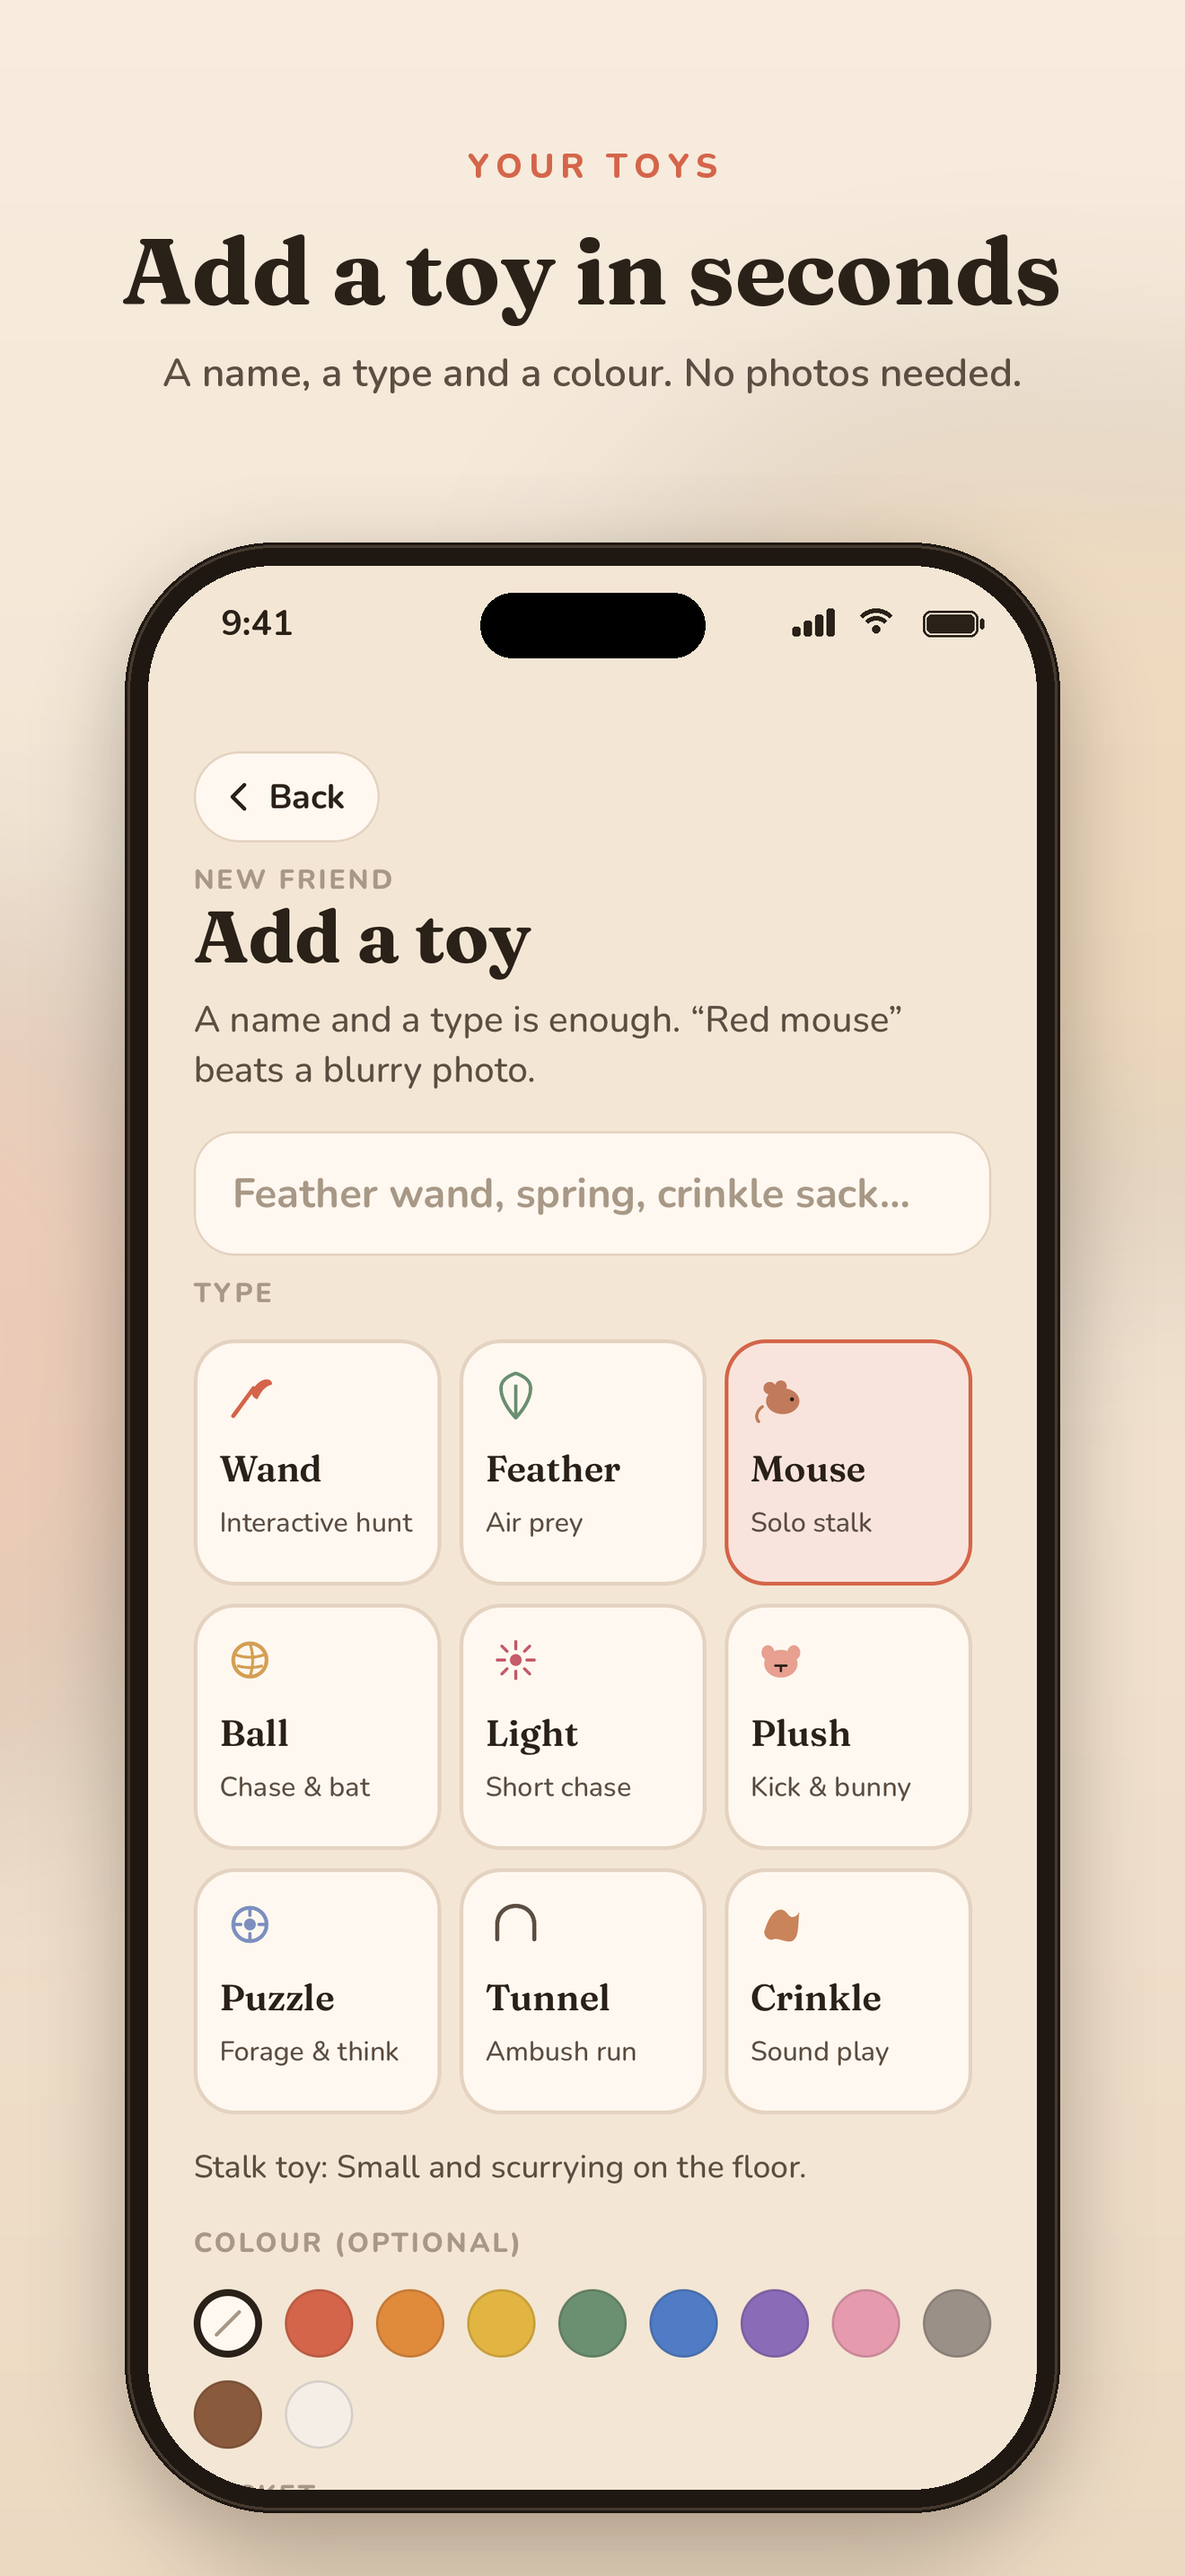
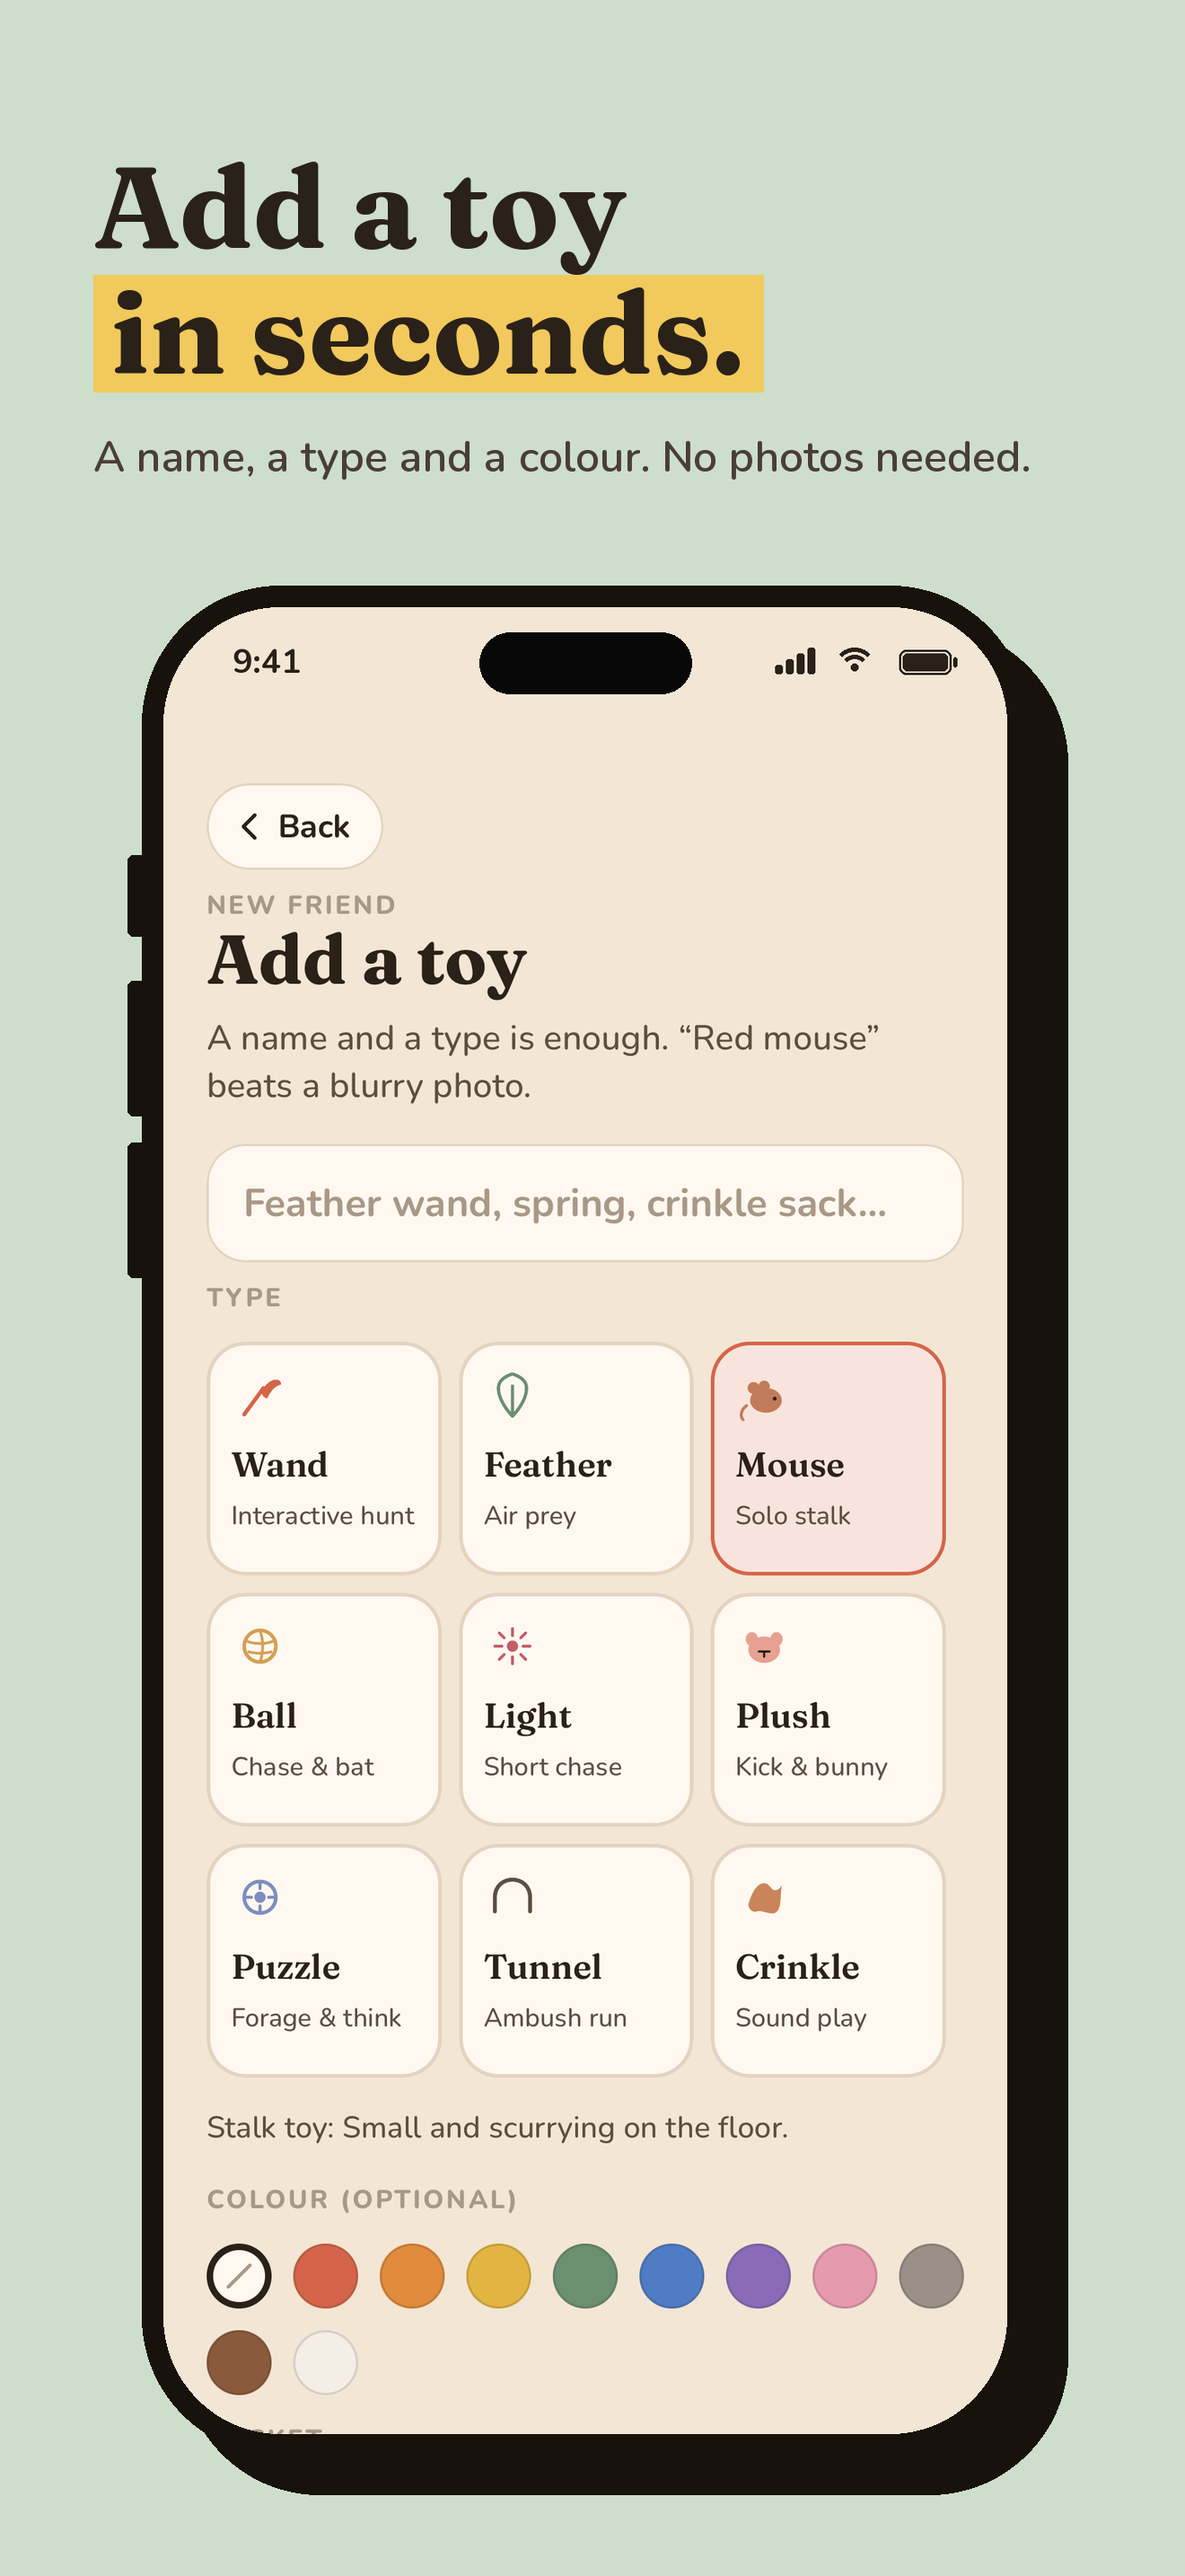
App Store screenshots: flat backgrounds, highlighted headlines, offset phone frame

diff --git a/appstore/make_screenshots.py b/appstore/make_screenshots.py
@@ -1,16 +1,16 @@
 """
 App Store screenshots for Purrtate.
 
-Puts each screenshot from appstore/source/ into an iPhone frame on a cream
-background with a headline, at 1320 x 2868 (6.9" display, the size App Store
-Connect requires). Replace a source PNG and run again to regenerate:
+Puts each screenshot from appstore/source/ into an iPhone frame with a
+headline, at 1320 x 2868 (6.9" display, the size App Store Connect requires).
+Replace a source PNG or edit SHOTS, then run again:
 
     python3 appstore/make_screenshots.py
 """
 
 from pathlib import Path
 
-from PIL import Image, ImageDraw, ImageFilter, ImageFont
+from PIL import Image, ImageDraw, ImageFont
 
 ROOT = Path(__file__).resolve().parent
 PROJECT = ROOT.parent
@@ -18,69 +18,45 @@ SRC = ROOT / "source"
 OUT = ROOT / "out"
 
 W, H = 1320, 2868
+MARGIN = 104
 
-CREAM_TOP = (247, 236, 222)
-CREAM_BOTTOM = (236, 217, 194)
 INK = (42, 33, 24)
-SOFT = (92, 78, 66)
-TERRA = (212, 101, 74)
-HONEY = (212, 160, 84)
-SAGE = (107, 143, 113)
+SOFT = (74, 62, 52)
 APP_BG = (243, 230, 212)
-FRAME = (31, 24, 18)
+FRAME = (24, 18, 13)
+HIGHLIGHT = (242, 201, 92)
+
+# Brand backgrounds, one per screenshot.
+PINK = (236, 200, 184)
+HONEY = (240, 215, 168)
+SAGE = (205, 222, 202)
+CREAM = (234, 217, 194)
 
 FONTS = PROJECT / "node_modules/@expo-google-fonts"
 DISPLAY = FONTS / "fraunces/700Bold/Fraunces_700Bold.ttf"
-LABEL = FONTS / "nunito/800ExtraBold/Nunito_800ExtraBold.ttf"
 BODY = FONTS / "nunito/600SemiBold/Nunito_600SemiBold.ttf"
 BOLD = FONTS / "nunito/700Bold/Nunito_700Bold.ttf"
 
-# Order matters: the first three show in App Store search results.
+# (source, background, plain headline, highlighted headline, subtitle)
+# The first three show in App Store search results.
 SHOTS = [
-    ("today.png", "TODAY", "Know what’s out, and when to swap", "One basket out, two resting. Swap early if they’re bored."),
-    ("baskets.png", "THREE BASKETS", "One out, two resting", "Mix a chase, a stalk and a grab toy into every basket."),
-    ("add-toy.png", "YOUR TOYS", "Add a toy in seconds", "A name, a type and a colour. No photos needed."),
-    ("energy.png", "YOUR CAT’S PACE", "Swap as often as they need", "Start with a suggestion, then adjust to your cat."),
-    ("name.png", "ONE HOME", "Several cats? One schedule", "Cats share the toys, so they share the baskets too."),
-    ("welcome.png", "PRIVATE", "No account. No tracking.", "Everything stays on your iPhone."),
+    ("today.png", PINK, "What’s out,", "when to swap.", "One basket out, two resting. Swap early if your cat is already bored."),
+    ("baskets.png", HONEY, "Three baskets.", "One out.", "Two rest so they feel new. Mix a chase, a stalk and a grab toy in each."),
+    ("add-toy.png", SAGE, "Add a toy", "in seconds.", "A name, a type and a colour. No photos needed."),
+    ("energy.png", CREAM, "Swap at", "your cat’s pace.", "Start with a suggestion, then adjust to how they really play."),
+    ("name.png", PINK, "Several cats?", "One schedule.", "Cats share the toys, so they share the baskets too."),
+    ("welcome.png", HONEY, "No account.", "No tracking.", "Everything stays on your iPhone."),
 ]
 
 # Phone geometry
-SCREEN_W = 990
-BEZEL = 26
-SCREEN_R = 140
+SCREEN_W = 940
+BEZEL = 24
+SCREEN_R = 130
+SHADOW = 44
 
 
 def font(path: Path, size: int) -> ImageFont.FreeTypeFont:
     return ImageFont.truetype(str(path), size)
-
-
-def gradient() -> Image.Image:
-    img = Image.new("RGB", (W, H))
-    px = img.load()
-    for y in range(H):
-        t = y / (H - 1)
-        c = tuple(round(CREAM_TOP[i] + (CREAM_BOTTOM[i] - CREAM_TOP[i]) * t) for i in range(3))
-        for x in range(W):
-            px[x, y] = c
-    return img
-
-
-def blobs(img: Image.Image, seed: int) -> None:
-    """Soft decorative circles in brand colours."""
-    layer = Image.new("RGBA", (W, H), (0, 0, 0, 0))
-    d = ImageDraw.Draw(layer)
-    spots = [
-        ((-220, 1500), 520, TERRA),
-        ((W - 200, 900), 460, HONEY),
-        ((W - 420, H - 260), 520, SAGE),
-    ]
-    for i, ((cx, cy), r, col) in enumerate(spots):
-        if (i + seed) % 3 == 2:
-            continue
-        d.ellipse([cx - r, cy - r, cx + r, cy + r], fill=col + (46,))
-    layer = layer.filter(ImageFilter.GaussianBlur(120))
-    img.paste(layer, (0, 0), layer)
 
 
 def wrap(draw: ImageDraw.ImageDraw, text: str, f: ImageFont.FreeTypeFont, max_w: int) -> list[str]:
@@ -98,16 +74,6 @@ def wrap(draw: ImageDraw.ImageDraw, text: str, f: ImageFont.FreeTypeFont, max_w:
     return lines
 
 
-def spaced(draw: ImageDraw.ImageDraw, xy, text: str, f, fill, tracking: float) -> None:
-    """Centered text with letter spacing."""
-    widths = [draw.textlength(ch, font=f) for ch in text]
-    total = sum(widths) + tracking * (len(text) - 1)
-    x = xy[0] - total / 2
-    for ch, w in zip(text, widths):
-        draw.text((x, xy[1]), ch, font=f, fill=fill)
-        x += w + tracking
-
-
 def clean_status_bar(screen: Image.Image) -> Image.Image:
     """Replace the real status bar (time, low battery) with a tidy 9:41 bar."""
     s = screen.copy()
@@ -117,19 +83,14 @@ def clean_status_bar(screen: Image.Image) -> Image.Image:
     d.rectangle([0, 0, sw, int(132 * k)], fill=APP_BG)
     cy = int(76 * k)
     d.text((int(96 * k), cy), "9:41", font=font(BOLD, int(46 * k)), fill=INK, anchor="lm")
-    # Battery
     bx, bw, bh = sw - int(150 * k), int(72 * k), int(34 * k)
     d.rounded_rectangle([bx, cy - bh // 2, bx + bw, cy + bh // 2], radius=int(10 * k), outline=INK, width=max(2, int(3 * k)))
     d.rounded_rectangle([bx + int(5 * k), cy - bh // 2 + int(5 * k), bx + bw - int(5 * k), cy + bh // 2 - int(5 * k)], radius=int(6 * k), fill=INK)
     d.rounded_rectangle([bx + bw + int(3 * k), cy - int(7 * k), bx + bw + int(8 * k), cy + int(7 * k)], radius=int(2 * k), fill=INK)
-    # Wifi
     wx = bx - int(62 * k)
-    for i, r in enumerate((int(30 * k), int(20 * k), int(10 * k))):
-        if i < 2:
-            d.arc([wx - r, cy - r + int(10 * k), wx + r, cy + r + int(10 * k)], 225, 315, fill=INK, width=max(3, int(6 * k)))
-        else:
-            d.ellipse([wx - int(5 * k), cy + int(2 * k), wx + int(5 * k), cy + int(12 * k)], fill=INK)
-    # Signal
+    for r in (int(30 * k), int(20 * k)):
+        d.arc([wx - r, cy - r + int(10 * k), wx + r, cy + r + int(10 * k)], 225, 315, fill=INK, width=max(3, int(6 * k)))
+    d.ellipse([wx - int(5 * k), cy + int(2 * k), wx + int(5 * k), cy + int(12 * k)], fill=INK)
     sx = wx - int(110 * k)
     for i in range(4):
         h = int((12 + i * 8) * k)
@@ -138,80 +99,73 @@ def clean_status_bar(screen: Image.Image) -> Image.Image:
 
 
 def phone(screen: Image.Image) -> Image.Image:
+    """Phone body with side buttons and a solid offset shadow, on a transparent layer."""
     screen = clean_status_bar(screen)
     sh = round(SCREEN_W * screen.height / screen.width)
     screen = screen.resize((SCREEN_W, sh), Image.LANCZOS)
     bw, bh = SCREEN_W + BEZEL * 2, sh + BEZEL * 2
+    btn = 16  # side buttons stick out on the left
+    layer = Image.new("RGBA", (bw + btn + SHADOW, bh + SHADOW), (0, 0, 0, 0))
+    d = ImageDraw.Draw(layer)
+    ox = btn
+    r = SCREEN_R + BEZEL
 
-    body = Image.new("RGBA", (bw, bh), (0, 0, 0, 0))
-    d = ImageDraw.Draw(body)
-    d.rounded_rectangle([0, 0, bw - 1, bh - 1], radius=SCREEN_R + BEZEL, fill=FRAME)
-    d.rounded_rectangle([3, 3, bw - 4, bh - 4], radius=SCREEN_R + BEZEL - 3, outline=(70, 58, 48), width=3)
+    # Solid offset shadow, then the body on top.
+    d.rounded_rectangle([ox + SHADOW, SHADOW, ox + SHADOW + bw - 1, SHADOW + bh - 1], radius=r, fill=FRAME)
+    for top, height in ((300, 90), (440, 150), (620, 150)):
+        d.rounded_rectangle([0, top, ox + 10, top + height], radius=6, fill=FRAME)
+    d.rounded_rectangle([ox, 0, ox + bw - 1, bh - 1], radius=r, fill=FRAME)
 
     mask = Image.new("L", (SCREEN_W, sh), 0)
     ImageDraw.Draw(mask).rounded_rectangle([0, 0, SCREEN_W - 1, sh - 1], radius=SCREEN_R, fill=255)
-    body.paste(screen, (BEZEL, BEZEL), mask)
+    layer.paste(screen, (ox + BEZEL, BEZEL), mask)
 
-    # Dynamic Island
-    iw, ih = 250, 72
-    ix = (bw - iw) // 2
-    d.rounded_rectangle([ix, BEZEL + 30, ix + iw, BEZEL + 30 + ih], radius=ih // 2, fill=(0, 0, 0))
-    return body
-
-
-def text_block(d: ImageDraw.ImageDraw, label: str, title: str, sub: str):
-    """Lines to draw as (y offset, text, font, colour, kind); returns them and the total height."""
-    tf, sf, lf = font(DISPLAY, 104), font(BODY, 44), font(LABEL, 38)
-    items, y = [("label", 0, label, lf, TERRA)], 78
-    for line in wrap(d, title, tf, W - 160):
-        items.append(("text", y, line, tf, INK))
-        y += 118
-    y += 30
-    for line in wrap(d, sub, sf, W - 220):
-        items.append(("text", y, line, sf, SOFT))
-        y += 60
-    return items, y
+    iw, ih = 236, 68
+    ix = ox + (bw - iw) // 2
+    d.rounded_rectangle([ix, BEZEL + 28, ix + iw, BEZEL + 28 + ih], radius=ih // 2, fill=(8, 8, 8))
+    return layer
 
 
-def render(src: str, label: str, title: str, sub: str, idx: int) -> Image.Image:
-    img = gradient()
-    blobs(img, idx)
+def render(src: str, bg, plain: str, highlight: str, sub: str) -> Image.Image:
+    img = Image.new("RGB", (W, H), bg)
     d = ImageDraw.Draw(img)
+    max_w = W - MARGIN * 2
 
-    # Phone pinned to the same spot on every screenshot.
+    tf = font(DISPLAY, 128)
+    y = 150
+    for line in wrap(d, plain, tf, max_w):
+        d.text((MARGIN, y), line, font=tf, fill=INK)
+        y += 140
+    for line in wrap(d, highlight, tf, max_w - 40):
+        left, top, right, bottom = d.textbbox((MARGIN + 20, y), line, font=tf)
+        d.rectangle([MARGIN, top - 14, right + 20, bottom + 18], fill=HIGHLIGHT)
+        d.text((MARGIN + 20, y), line, font=tf, fill=INK)
+        y += 150
+
+    y += 36
+    sf = font(BODY, 48)
+    for line in wrap(d, sub, sf, max_w - 40):
+        d.text((MARGIN, y), line, font=sf, fill=SOFT)
+        y += 66
+
     device = phone(Image.open(SRC / src).convert("RGB"))
-    top = H - 70 - device.height
-    x = (W - device.width) // 2
-
-    # Text centred in the space above the phone.
-    items, block_h = text_block(d, label, title, sub)
-    y0 = max(70, (top - block_h) // 2)
-    for kind, dy, text, f, col in items:
-        if kind == "label":
-            spaced(d, (W / 2, y0 + dy), text, f, col, 7)
-        else:
-            d.text((W / 2, y0 + dy), text, font=f, fill=col, anchor="ma")
-
-    shadow = Image.new("RGBA", (W, H), (0, 0, 0, 0))
-    ImageDraw.Draw(shadow).rounded_rectangle(
-        [x + 10, top + 40, x + device.width - 10, top + device.height + 30],
-        radius=SCREEN_R + BEZEL,
-        fill=(60, 40, 20, 90),
-    )
-    shadow = shadow.filter(ImageFilter.GaussianBlur(50))
-    img.paste(shadow, (0, 0), shadow)
+    # Never cover the text: push the phone down (cropping its bottom) if needed.
+    top = max(H - device.height - 90, y + 60)
+    x = (W - device.width) // 2 + 6
     img.paste(device, (x, top), device)
     return img
 
 
 def main() -> None:
     OUT.mkdir(exist_ok=True)
-    for i, (src, label, title, sub) in enumerate(SHOTS, start=1):
+    for old in OUT.glob("*.png"):
+        old.unlink()
+    for i, (src, bg, plain, highlight, sub) in enumerate(SHOTS, start=1):
         if not (SRC / src).exists():
             print(f"skip {src} (missing)")
             continue
         out = OUT / f"{i:02d}-{Path(src).stem}.png"
-        render(src, label, title, sub, i).save(out, optimize=True)
+        render(src, bg, plain, highlight, sub).save(out, optimize=True)
         print(out.relative_to(PROJECT))
 
 
